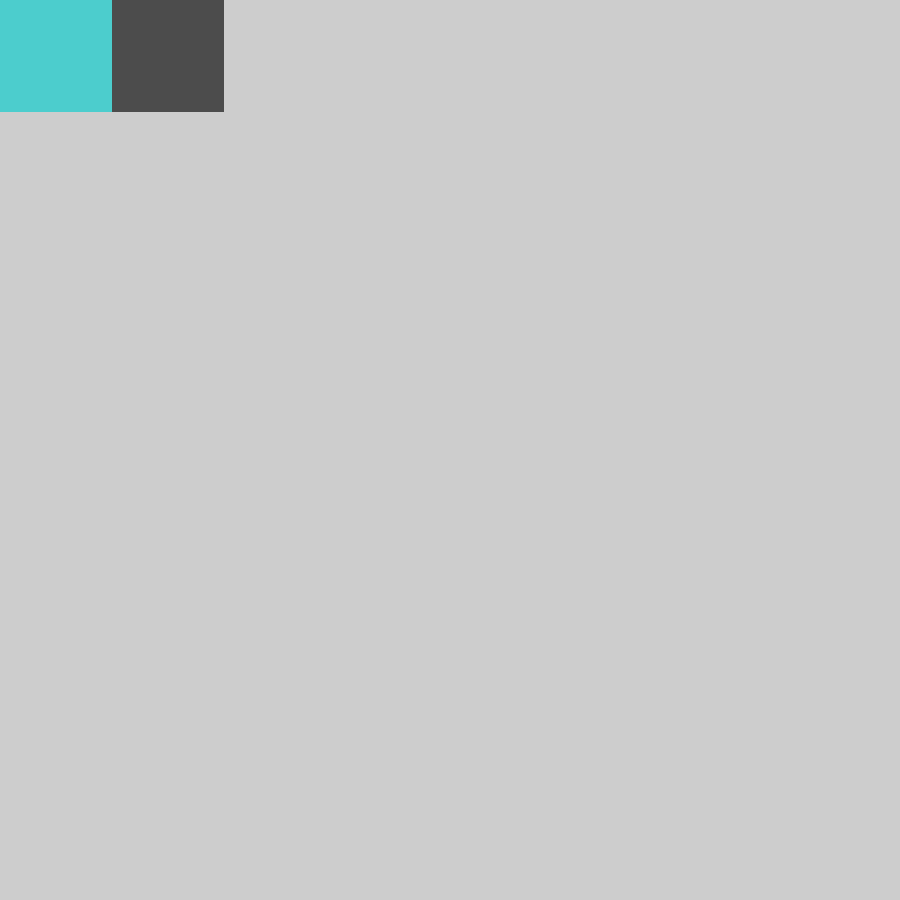
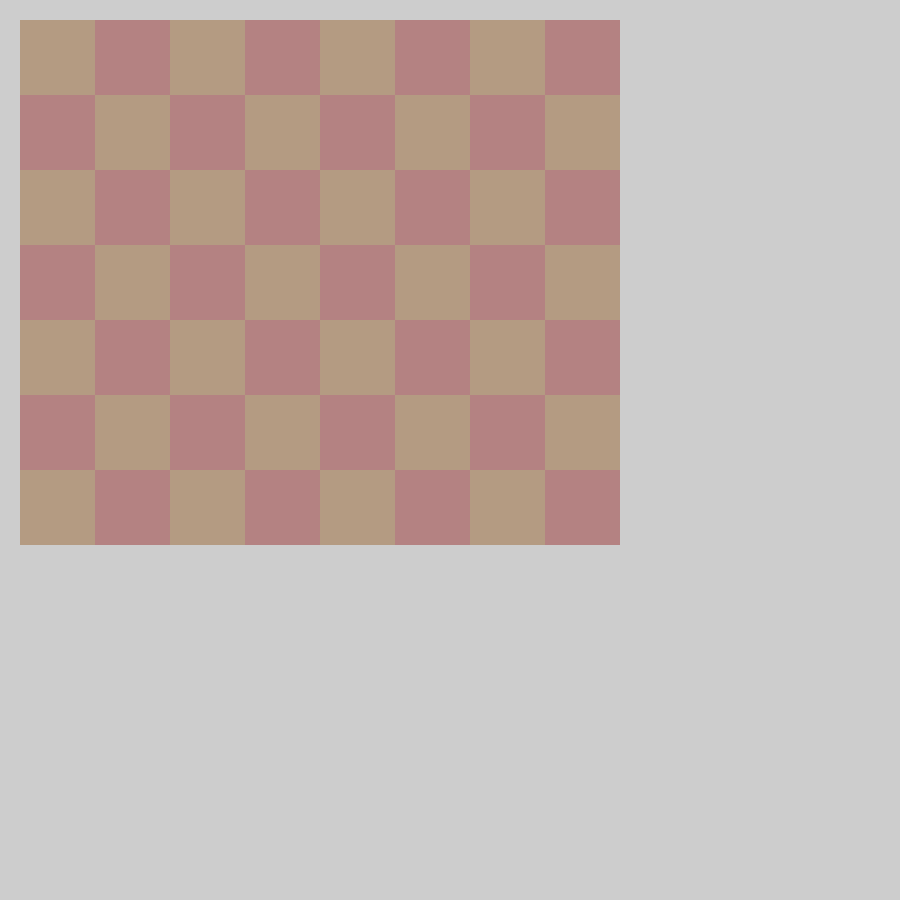
a beautiful checkerboard if I do say so myself

diff --git a/src/HomeWork1App.cpp b/src/HomeWork1App.cpp
@@ -26,14 +26,14 @@ class HomeWork1App : public AppBasic {
 	  int startY;
 
 	  //methods
-	  void blackOutWindow(uint8_t* pixels);
 	  void horLine(uint8_t* pixels, int x1, int x2, int y, Color8u lineColor);
 	  void vertLine(uint8_t* pixels, int y1, int y2, int x, Color8u lineColor);
 	  void rectangle(uint8_t* pixels, int x, int y, int width, int length, Color8u lineColor);
-	  void filledSquare(uint8_t* pixels, int x, int y, int sideLength, Color8u lineColor);
+	  void filledSquare(uint8_t* pixels, int x, int y, double sideLength, Color8u lineColor);
 	  void diagLine(uint8_t* pixels, int x, int y, int sideLength, Color8u lineColor);
 	  void drawCircle(uint8_t* pixels, int center_x, int center_y, int r, Color8u lineColor);
 	  void checkerBoard(uint8_t* pixels, int startX, int startY);
+	  void tint(uint8_t* pixels, Color8u c);
 
 };
 
@@ -43,10 +43,10 @@ void HomeWork1App::setup()
 	mySurface_ = new Surface(kSurfaceSize,kSurfaceSize,false);
 	myPixels = (*mySurface_).getData();
 	
-	filledSquare(myPixels,0,0,112.5,Color(.5,0,0));
-	filledSquare(myPixels,112.5,0,112.5,Color(.5,.5,.5));
-	//checkerBoard(myPixels,0,0);
-	//blackOutWindow(myPixels);
+	//filledSquare(myPixels,0,0,112.5,Color(.5,0,0));
+	//filledSquare(myPixels,112.5,0,112.5,Color(.5,.5,.5));
+	//tint(myPixels,Color(125.0,0,0));
+	checkerBoard(myPixels,20,20);
 	//horLine(myPixels,200,400,200,Color(500,500,500));
 	//vertLine(myPixels,100,300,300,Color(500,500,500));
 	//rectangle(myPixels,200,200,50,200,Color(500,500,500));
@@ -54,24 +54,6 @@ void HomeWork1App::setup()
 	//diagLine(myPixels,0,0,kSurfaceSize,Color(500,500,500));
 	//drawCircle(myPixels,312.5,312.5,100,Color(500,500,500));
 }
-
-/* color the window by accessing the surface pixel's array directly. This is taken
- * from Cary Willard's code and is being used for educational purpose to understand how to 
- * correctly access the surface pixel array. This will now appear in my final project.
- */
-void HomeWork1App::blackOutWindow(uint8_t* pixels)
-{
-	Color8u c = Color(0,0,0);
-
-	for (int y=0; y<kSurfaceSize; y++) {
-		for (int x=0; x<kSurfaceSize; x++) {
-			int offSet = 3*(x + y * kSurfaceSize);
-			pixels[offSet] = pixels[offSet] + c.r; //red
-			pixels[offSet+1] = pixels[offSet+1] + c.g; //green
-			pixels[offSet+2] = pixels[offSet+2] + c.b; //blue
-		}
-	}
-}; 
 
 //Draw a vertical line using the same approach as the horLine method
 void HomeWork1App::vertLine(uint8_t* pixels, int y1, int y2, int x, Color8u lineColor)
@@ -121,7 +103,7 @@ void HomeWork1App::rectangle(uint8_t* pixels, int x, int y, int width, int lengt
  * parameter int sideLength: the length you want each side of the square to be.
  * parameter Color8u lineColor: the color you want the line to be.
  */
-void HomeWork1App::filledSquare(uint8_t* pixels, int x, int y, int sideLength, Color8u lineColor)
+void HomeWork1App::filledSquare(uint8_t* pixels, int x, int y, double sideLength, Color8u lineColor)
 {
 	for (int i=y; i<(y+sideLength); i++) {
 		horLine(pixels,x,(x+sideLength),i,lineColor);
@@ -214,22 +196,39 @@ void HomeWork1App::drawCircle(uint8_t* pixels, int center_x, int center_y, int r
 
 void HomeWork1App::checkerBoard(uint8_t* pixels, int startX, int startY)
 {
-	for (int y=0; y<=8; y++) {
-		for (int x=0; x<=8; x++) {
-			if (startX=900) {
-				startX = 0;
+	int reverse = 0;
+	for (int y=0; y<7; y++) {
+		for (int x=0; x<8; x++) {
+			if (x%2 == 0) {
+				if (reverse == 0)
+					filledSquare(pixels,startX,startY,75,Color(25.0,50.0,75.0));
+				else
+					filledSquare(pixels,startX,startY,75,Color(25.0,75.0,75.0));
 			}
 			else {
-				if (x%2 == 0) {
-					filledSquare(pixels,startX,startY,112.5,Color(0,.25,0));
-				}
-				else {
-					filledSquare(pixels,startX,startY,112.5,Color(.5,.5,.5));
-				}
-				startX = startX + 112.5;
+				if (reverse == 0)
+					filledSquare(pixels,startX,startY,75,Color(25.0,75.0,75.0));
+				else
+					filledSquare(pixels,startX,startY,75,Color(25.0,50.0,75.0));
 			}
+			startX = startX + 75;
 		}
-		startY = startY + 112.5;
+		startY = startY + 75;
+		startX = 20;
+		if (reverse == 0)
+			reverse = 1;
+		else
+			reverse = 0;
+	}
+};
+
+void HomeWork1App::tint(uint8_t* pixels, Color8u c) 
+{
+	for (int y=0; y<kSurfaceSize; y++) {
+		for (int x=0; x<kSurfaceSize; x++) {
+			int offSet = 3*(x + y*kSurfaceSize);
+			pixels[offSet] = pixels[offSet] + c.r;
+		}
 	}
 };
 
@@ -245,7 +244,7 @@ void HomeWork1App::update()
 void HomeWork1App::draw()
 {
 	// clear out the window with black
-	gl::clear( Color( 1.0, 1.0, 1.0 ) );
+	gl::clear( Color( 0,0,0 ) );
 	gl::draw(*mySurface_);
 }
 
